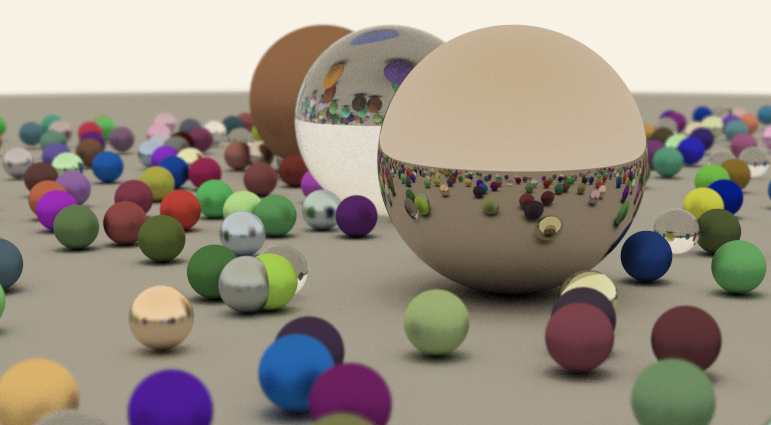
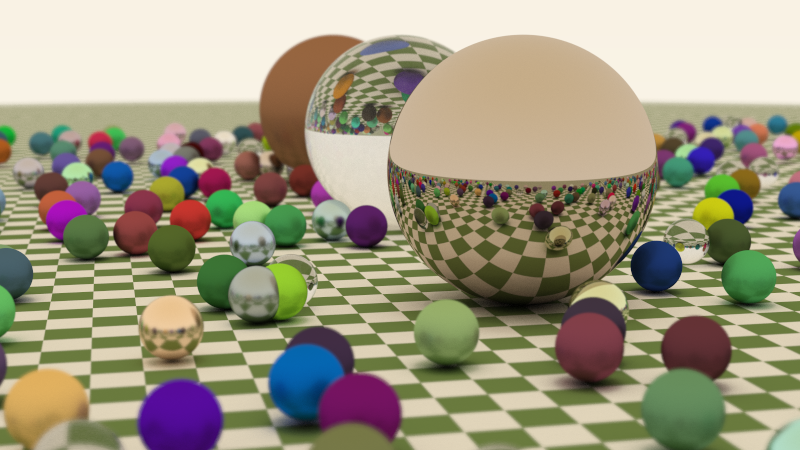
update read me add texture to world

diff --git a/main.cpp b/main.cpp
@@ -11,11 +11,11 @@
 #include "model/materials/reflective.h"
 #include "model/materials/grass.h"
 #include "model/materials/dielectric.h"
+#include "model/materials/checker_texture.h"
 
 void random_scene(std::vector<shared_ptr<Hittable>> &objects) {
-
-    auto ground_material = make_shared<Lambertian>(Color(0.5, 0.5, 0.5));
-    objects.push_back(make_shared<Sphere>(Point3(0,-1000,0), 1000, ground_material));
+    auto checker = make_shared<CheckerTexture>(Color(0.2, 0.3, 0.1), Color(0.9, 0.9, 0.9));
+    objects.push_back(make_shared<Sphere>(Point3(0,-1000,0), 1000, make_shared<Lambertian>(checker)));
 
     for (int a = -11; a < 11; a++) {
         for (int b = -11; b < 11; b++) {

diff --git a/model/materials/lambertian.h b/model/materials/lambertian.h
@@ -11,9 +11,9 @@ class Lambertian : public Material {
 public:
     Lambertian() :Material(DEFAULT_MAT_COLOR) {}
 
-    explicit Lambertian(Color &color) : Material(color){};
+    explicit Lambertian(Color color) : Material(color){};
 
-    explicit Lambertian(std::shared_ptr<Texture> &t) : Material(t) {}
+    explicit Lambertian(std::shared_ptr<Texture> t) : Material(t) {}
 
     virtual bool Scatter(const Ray& r_in, const hit_record& rec, Color& attenuation, Ray& scattered) const;
 };

diff --git a/readme.md b/readme.md
@@ -10,13 +10,15 @@ a few artistic (and some performance guided) decisions were taken, such as bound
 random reflections (instead of uniformly random) to have stronger shadows and lower number
 of samples per ray.
 
-the output is a png file "render" like the following
+the output is a file "render.png" like the following
 
 ![Test Image 1](render.png)
 
 - - -
 Sources
 
-Peter Shirley - Raytracing Open Source Books
+ * Peter Shirley - Raytracing Open Source Books
 
-Scratchapixel - Computer graphics lessons for math explanations
+* Scratchapixel - Computer graphics lessons for math explanations
+
+* nothings/stb_image_write.h
